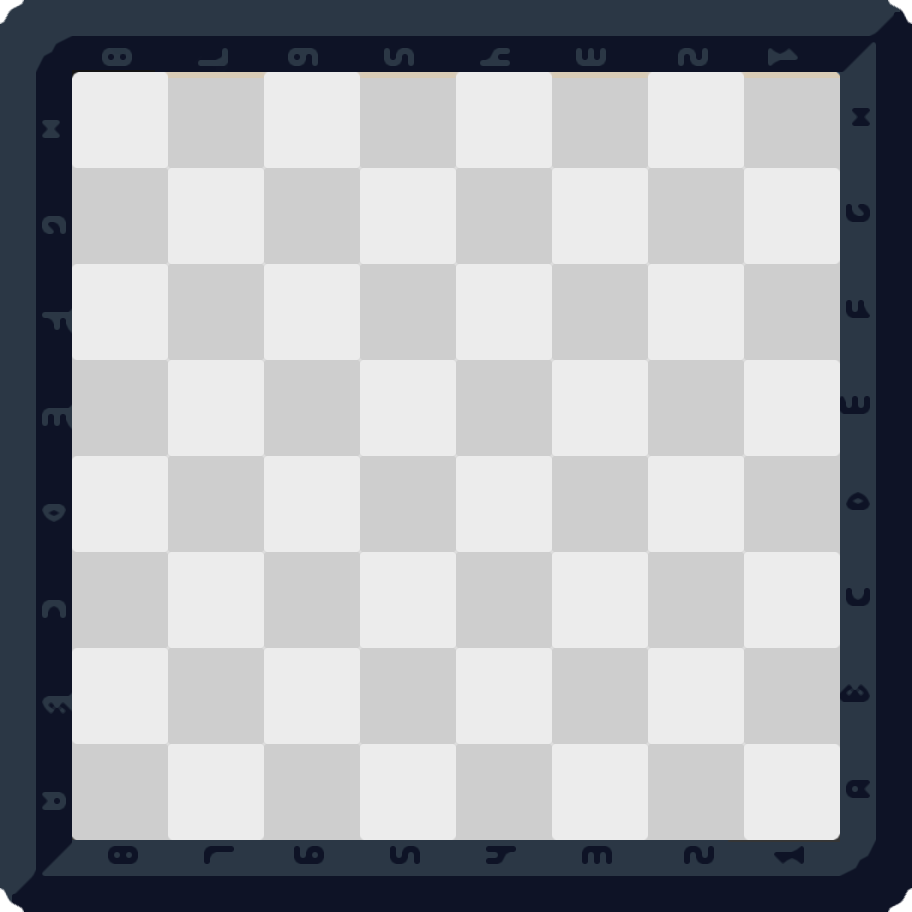
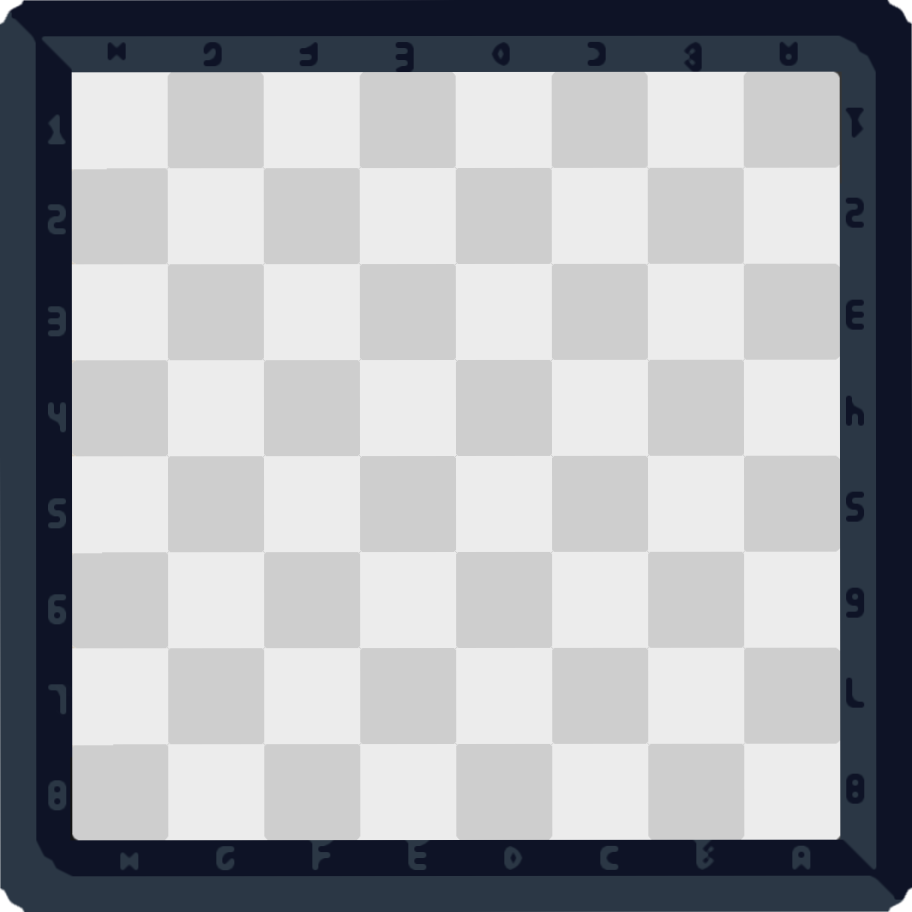
added sprites, updated checkers move method & oriented board correctly

diff --git a/src/CheckersController.java b/src/CheckersController.java
@@ -48,200 +48,6 @@ public class CheckersController extends Application {
     private AnchorPane rootPane;
 
 
-    // i know this is crazy. but god it WONT WORK OTHERWISE AJHBDHBFUYHWEF
-    @FXML
-    private void handleCellClick00(javafx.scene.input.MouseEvent event) { handleMove(0, 0); }
-
-    @FXML
-    private void handleCellClick01(javafx.scene.input.MouseEvent event) { handleMove(0, 1); }
-
-    @FXML
-    private void handleCellClick02(javafx.scene.input.MouseEvent event) { handleMove(0, 2); }
-
-    @FXML
-    private void handleCellClick03(javafx.scene.input.MouseEvent event) { handleMove(0, 3); }
-
-    @FXML
-    private void handleCellClick04(javafx.scene.input.MouseEvent event) { handleMove(0, 4); }
-
-    @FXML
-    private void handleCellClick05(javafx.scene.input.MouseEvent event) { handleMove(0, 5); }
-
-    @FXML
-    private void handleCellClick06(javafx.scene.input.MouseEvent event) { handleMove(0, 6); }
-
-    @FXML
-    private void handleCellClick07(javafx.scene.input.MouseEvent event) { handleMove(0, 7); }
-
-    @FXML
-    private void handleCellClick10(javafx.scene.input.MouseEvent event) { handleMove(1, 0); }
-
-    @FXML
-    private void handleCellClick11(javafx.scene.input.MouseEvent event) { handleMove(1, 1); }
-
-    @FXML
-    private void handleCellClick12(javafx.scene.input.MouseEvent event) { handleMove(1, 2); }
-
-    @FXML
-    private void handleCellClick13(javafx.scene.input.MouseEvent event) { handleMove(1, 3); }
-
-    @FXML
-    private void handleCellClick14(javafx.scene.input.MouseEvent event) { handleMove(1, 4); }
-
-    @FXML
-    private void handleCellClick15(javafx.scene.input.MouseEvent event) { handleMove(1, 5); }
-
-    @FXML
-    private void handleCellClick16(javafx.scene.input.MouseEvent event) { handleMove(1, 6); }
-
-    @FXML
-    private void handleCellClick17(javafx.scene.input.MouseEvent event) { handleMove(1, 7); }
-
-    @FXML
-    private void handleCellClick20(javafx.scene.input.MouseEvent event) { handleMove(2, 0); }
-
-    @FXML
-    private void handleCellClick21(javafx.scene.input.MouseEvent event) { handleMove(2, 1); }
-
-    @FXML
-    private void handleCellClick22(javafx.scene.input.MouseEvent event) { handleMove(2, 2); }
-
-    @FXML
-    private void handleCellClick23(javafx.scene.input.MouseEvent event) { handleMove(2, 3); }
-
-    @FXML
-    private void handleCellClick24(javafx.scene.input.MouseEvent event) { handleMove(2, 4); }
-
-    @FXML
-    private void handleCellClick25(javafx.scene.input.MouseEvent event) { handleMove(2, 5); }
-
-    @FXML
-    private void handleCellClick26(javafx.scene.input.MouseEvent event) { handleMove(2, 6); }
-
-    @FXML
-    private void handleCellClick27(javafx.scene.input.MouseEvent event) { handleMove(2, 7); }
-
-    @FXML
-    private void handleCellClick30(javafx.scene.input.MouseEvent event) { handleMove(3, 0); }
-
-    @FXML
-    private void handleCellClick31(javafx.scene.input.MouseEvent event) { handleMove(3, 1); }
-
-    @FXML
-    private void handleCellClick32(javafx.scene.input.MouseEvent event) { handleMove(3, 2); }
-
-    @FXML
-    private void handleCellClick33(javafx.scene.input.MouseEvent event) { handleMove(3, 3); }
-
-    @FXML
-    private void handleCellClick34(javafx.scene.input.MouseEvent event) { handleMove(3, 4); }
-
-    @FXML
-    private void handleCellClick35(javafx.scene.input.MouseEvent event) { handleMove(3, 5); }
-
-    @FXML
-    private void handleCellClick36(javafx.scene.input.MouseEvent event) { handleMove(3, 6); }
-
-    @FXML
-    private void handleCellClick37(javafx.scene.input.MouseEvent event) { handleMove(3, 7); }
-
-    @FXML
-    private void handleCellClick40(javafx.scene.input.MouseEvent event) { handleMove(4, 0); }
-
-    @FXML
-    private void handleCellClick41(javafx.scene.input.MouseEvent event) { handleMove(4, 1); }
-
-    @FXML
-    private void handleCellClick42(javafx.scene.input.MouseEvent event) { handleMove(4, 2); }
-
-    @FXML
-    private void handleCellClick43(javafx.scene.input.MouseEvent event) { handleMove(4, 3); }
-
-    @FXML
-    private void handleCellClick44(javafx.scene.input.MouseEvent event) { handleMove(4, 4); }
-
-    @FXML
-    private void handleCellClick45(javafx.scene.input.MouseEvent event) { handleMove(4, 5); }
-
-    @FXML
-    private void handleCellClick46(javafx.scene.input.MouseEvent event) { handleMove(4, 6); }
-
-    @FXML
-    private void handleCellClick47(javafx.scene.input.MouseEvent event) { handleMove(4, 7); }
-
-    @FXML
-    private void handleCellClick50(javafx.scene.input.MouseEvent event) { handleMove(5, 0); }
-
-    @FXML
-    private void handleCellClick51(javafx.scene.input.MouseEvent event) { handleMove(5, 1); }
-
-    @FXML
-    private void handleCellClick52(javafx.scene.input.MouseEvent event) { handleMove(5, 2); }
-
-    @FXML
-    private void handleCellClick53(javafx.scene.input.MouseEvent event) { handleMove(5, 3); }
-
-    @FXML
-    private void handleCellClick54(javafx.scene.input.MouseEvent event) { handleMove(5, 4); }
-
-    @FXML
-    private void handleCellClick55(javafx.scene.input.MouseEvent event) { handleMove(5, 5); }
-
-    @FXML
-    private void handleCellClick56(javafx.scene.input.MouseEvent event) { handleMove(5, 6); }
-
-    @FXML
-    private void handleCellClick57(javafx.scene.input.MouseEvent event) { handleMove(5, 7); }
-
-    @FXML
-    private void handleCellClick60(javafx.scene.input.MouseEvent event) { handleMove(6, 0); }
-
-    @FXML
-    private void handleCellClick61(javafx.scene.input.MouseEvent event) { handleMove(6, 1); }
-
-    @FXML
-    private void handleCellClick62(javafx.scene.input.MouseEvent event) { handleMove(6, 2); }
-
-    @FXML
-    private void handleCellClick63(javafx.scene.input.MouseEvent event) { handleMove(6, 3); }
-
-    @FXML
-    private void handleCellClick64(javafx.scene.input.MouseEvent event) { handleMove(6, 4); }
-
-    @FXML
-    private void handleCellClick65(javafx.scene.input.MouseEvent event) { handleMove(6, 5); }
-
-    @FXML
-    private void handleCellClick66(javafx.scene.input.MouseEvent event) { handleMove(6, 6); }
-
-    @FXML
-    private void handleCellClick67(javafx.scene.input.MouseEvent event) { handleMove(6, 7); }
-
-    @FXML
-    private void handleCellClick70(javafx.scene.input.MouseEvent event) { handleMove(7, 0); }
-
-    @FXML
-    private void handleCellClick71(javafx.scene.input.MouseEvent event) { handleMove(7, 1); }
-
-    @FXML
-    private void handleCellClick72(javafx.scene.input.MouseEvent event) { handleMove(7, 2); }
-
-    @FXML
-    private void handleCellClick73(javafx.scene.input.MouseEvent event) { handleMove(7, 3); }
-
-    @FXML
-    private void handleCellClick74(javafx.scene.input.MouseEvent event) { handleMove(7, 4); }
-
-    @FXML
-    private void handleCellClick75(javafx.scene.input.MouseEvent event) { handleMove(7, 5); }
-
-    @FXML
-    private void handleCellClick76(javafx.scene.input.MouseEvent event) { handleMove(7, 6); }
-
-    @FXML
-    private void handleCellClick77(javafx.scene.input.MouseEvent event) { handleMove(7, 7); }
-
-
     @Override
     public void start(Stage primaryStage) {
         try {
@@ -388,6 +194,15 @@ public class CheckersController extends Application {
     public void initialize() {
         Board board = new Board(GameType.CHECKERS);
         game.setBoard(board);
+        for (Node node : gameBoard.getChildren()) {
+            Integer row = GridPane.getRowIndex(node);
+            Integer col = GridPane.getColumnIndex(node);
+            int r = row == null ? 0 : row;
+            int c = col == null ? 0 : col;
+
+            node.setOnMouseClicked(e -> handleMove(r, c));
+        }
+
         game.start(); // push game out of setup mode
         updateBoard();
         UtilityManager.createScaleTransition(menuButton);

diff --git a/src/UtilityManager.java b/src/UtilityManager.java
@@ -9,6 +9,7 @@ import javafx.scene.layout.AnchorPane;
 import javafx.scene.layout.Pane;
 import javafx.scene.layout.StackPane;
 import javafx.scene.paint.Color;
+import javafx.scene.shape.Rectangle;
 import javafx.scene.text.Text;
 import javafx.util.Duration;
 
@@ -151,5 +152,36 @@ public class UtilityManager {
 
         pane.setOnMouseEntered(e -> scaleIn.play());
         pane.setOnMouseExited(e -> scaleOut.play());
+    }
+
+    /**
+     * Method to add hover effects to match panes (which changes rectangle opacity too!)
+     *
+     * @param pane Pane that is hovered on
+     *
+     * @author Arwa A
+     */
+    public static void addHoverEffectRectangle(Pane pane) {
+        Rectangle rect = (Rectangle) pane.getChildren().get(0);
+        rect.setOpacity(0.86);
+
+        ScaleTransition scaleIn = new ScaleTransition(Duration.millis(200), pane);
+        scaleIn.setToX(1.05);
+        scaleIn.setToY(1.05);
+
+        ScaleTransition scaleOut = new ScaleTransition(Duration.millis(200), pane);
+        scaleOut.setToX(1.0);
+        scaleOut.setToY(1.0);
+
+        // add hover effect to adjust the rectangle opacity and play scale transition
+        pane.setOnMouseEntered(e -> {
+            rect.setOpacity(1.0);
+            scaleIn.play();
+        });
+
+        pane.setOnMouseExited(e -> {
+            rect.setOpacity(0.86);
+            scaleOut.play();
+        });
     }
 }
